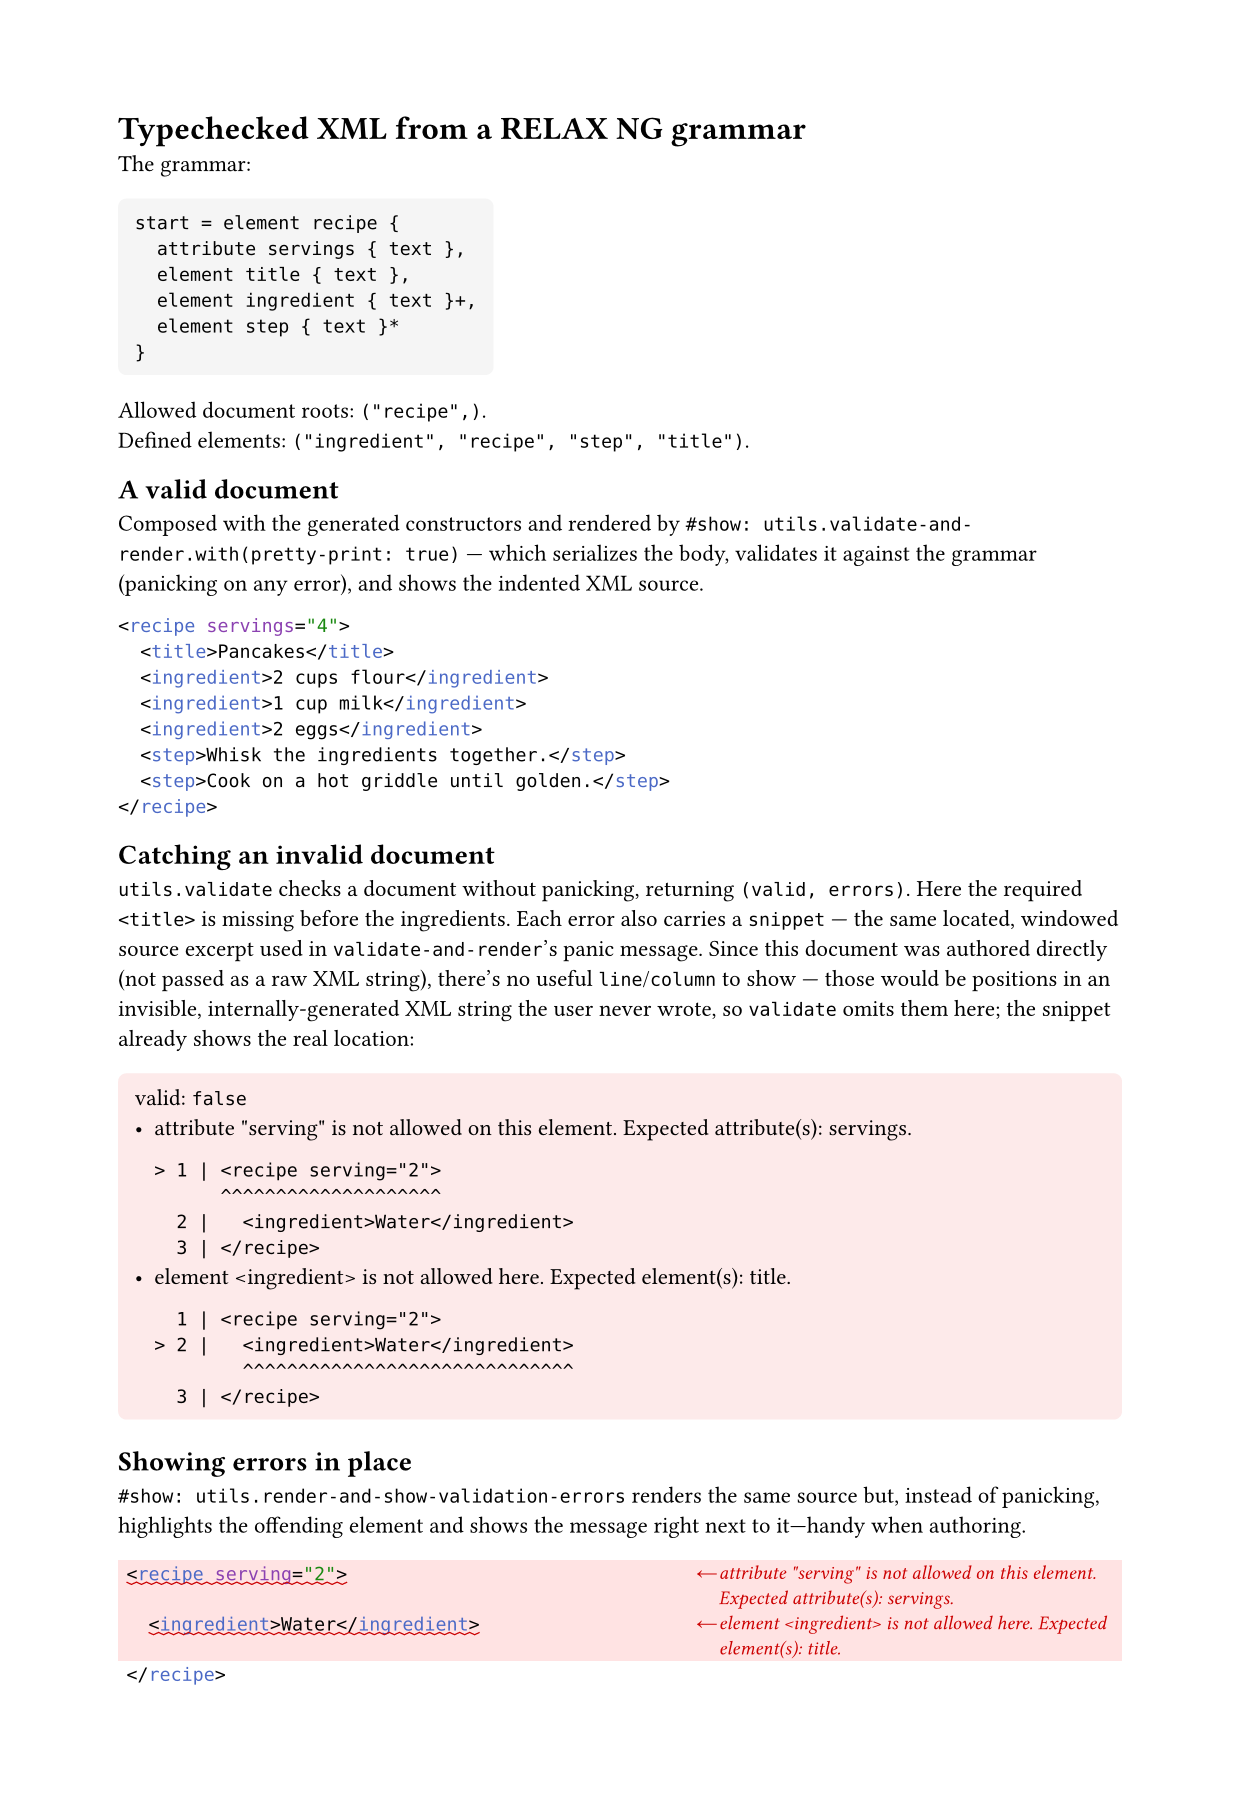
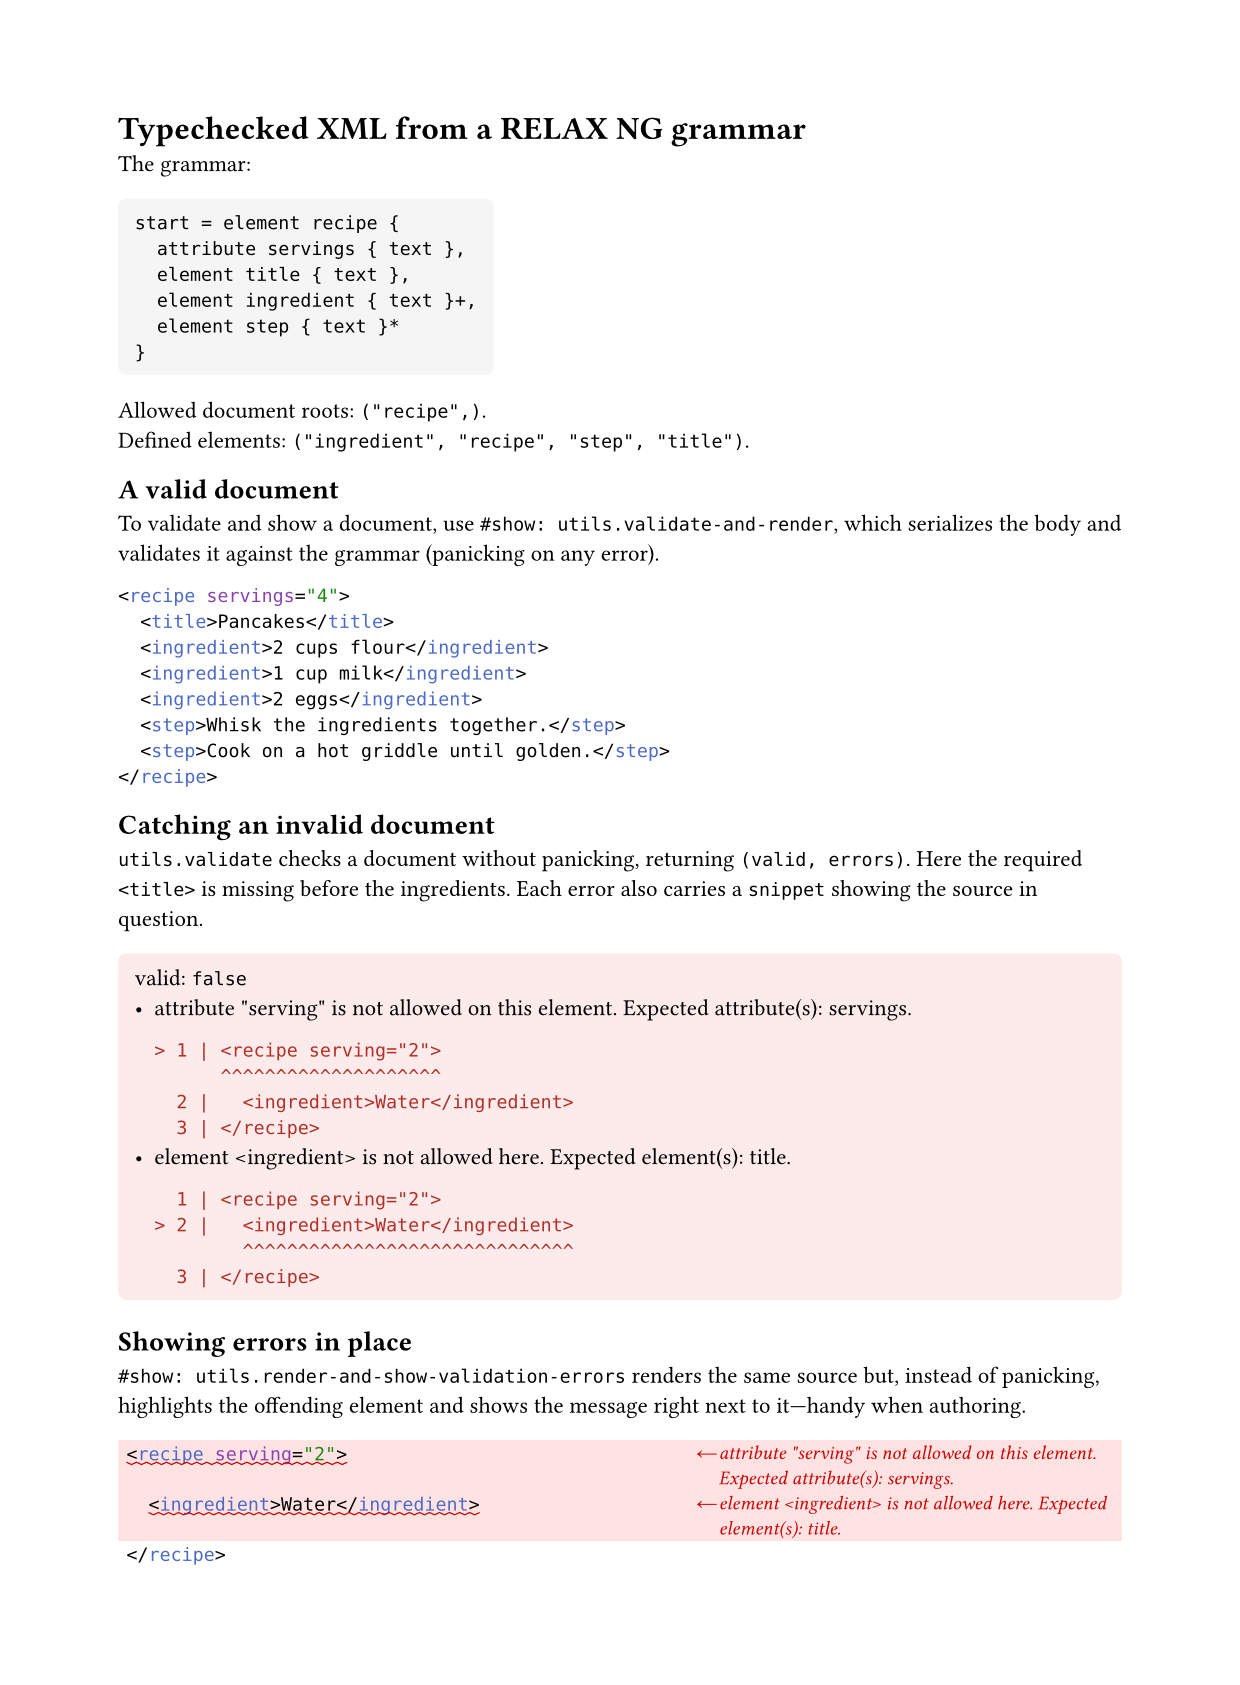
Review fixes

Changed region(s): [[0.0919, 0.0617, 0.9194, 0.9258], [0.8581, 0.3086, 0.8887, 0.3395]]

diff --git a/README.md b/README.md
@@ -177,7 +177,7 @@ The returned dictionary destructures into two entries:
     compilation with a readable panic that includes a small line-numbered
     snippet of the source around each error, not the whole document:
 
-    ```
+    ```text
     XML failed RELAX NG validation:
     - element <qux> is not allowed here. Expected element(s): bar.
         1 | <foo>
